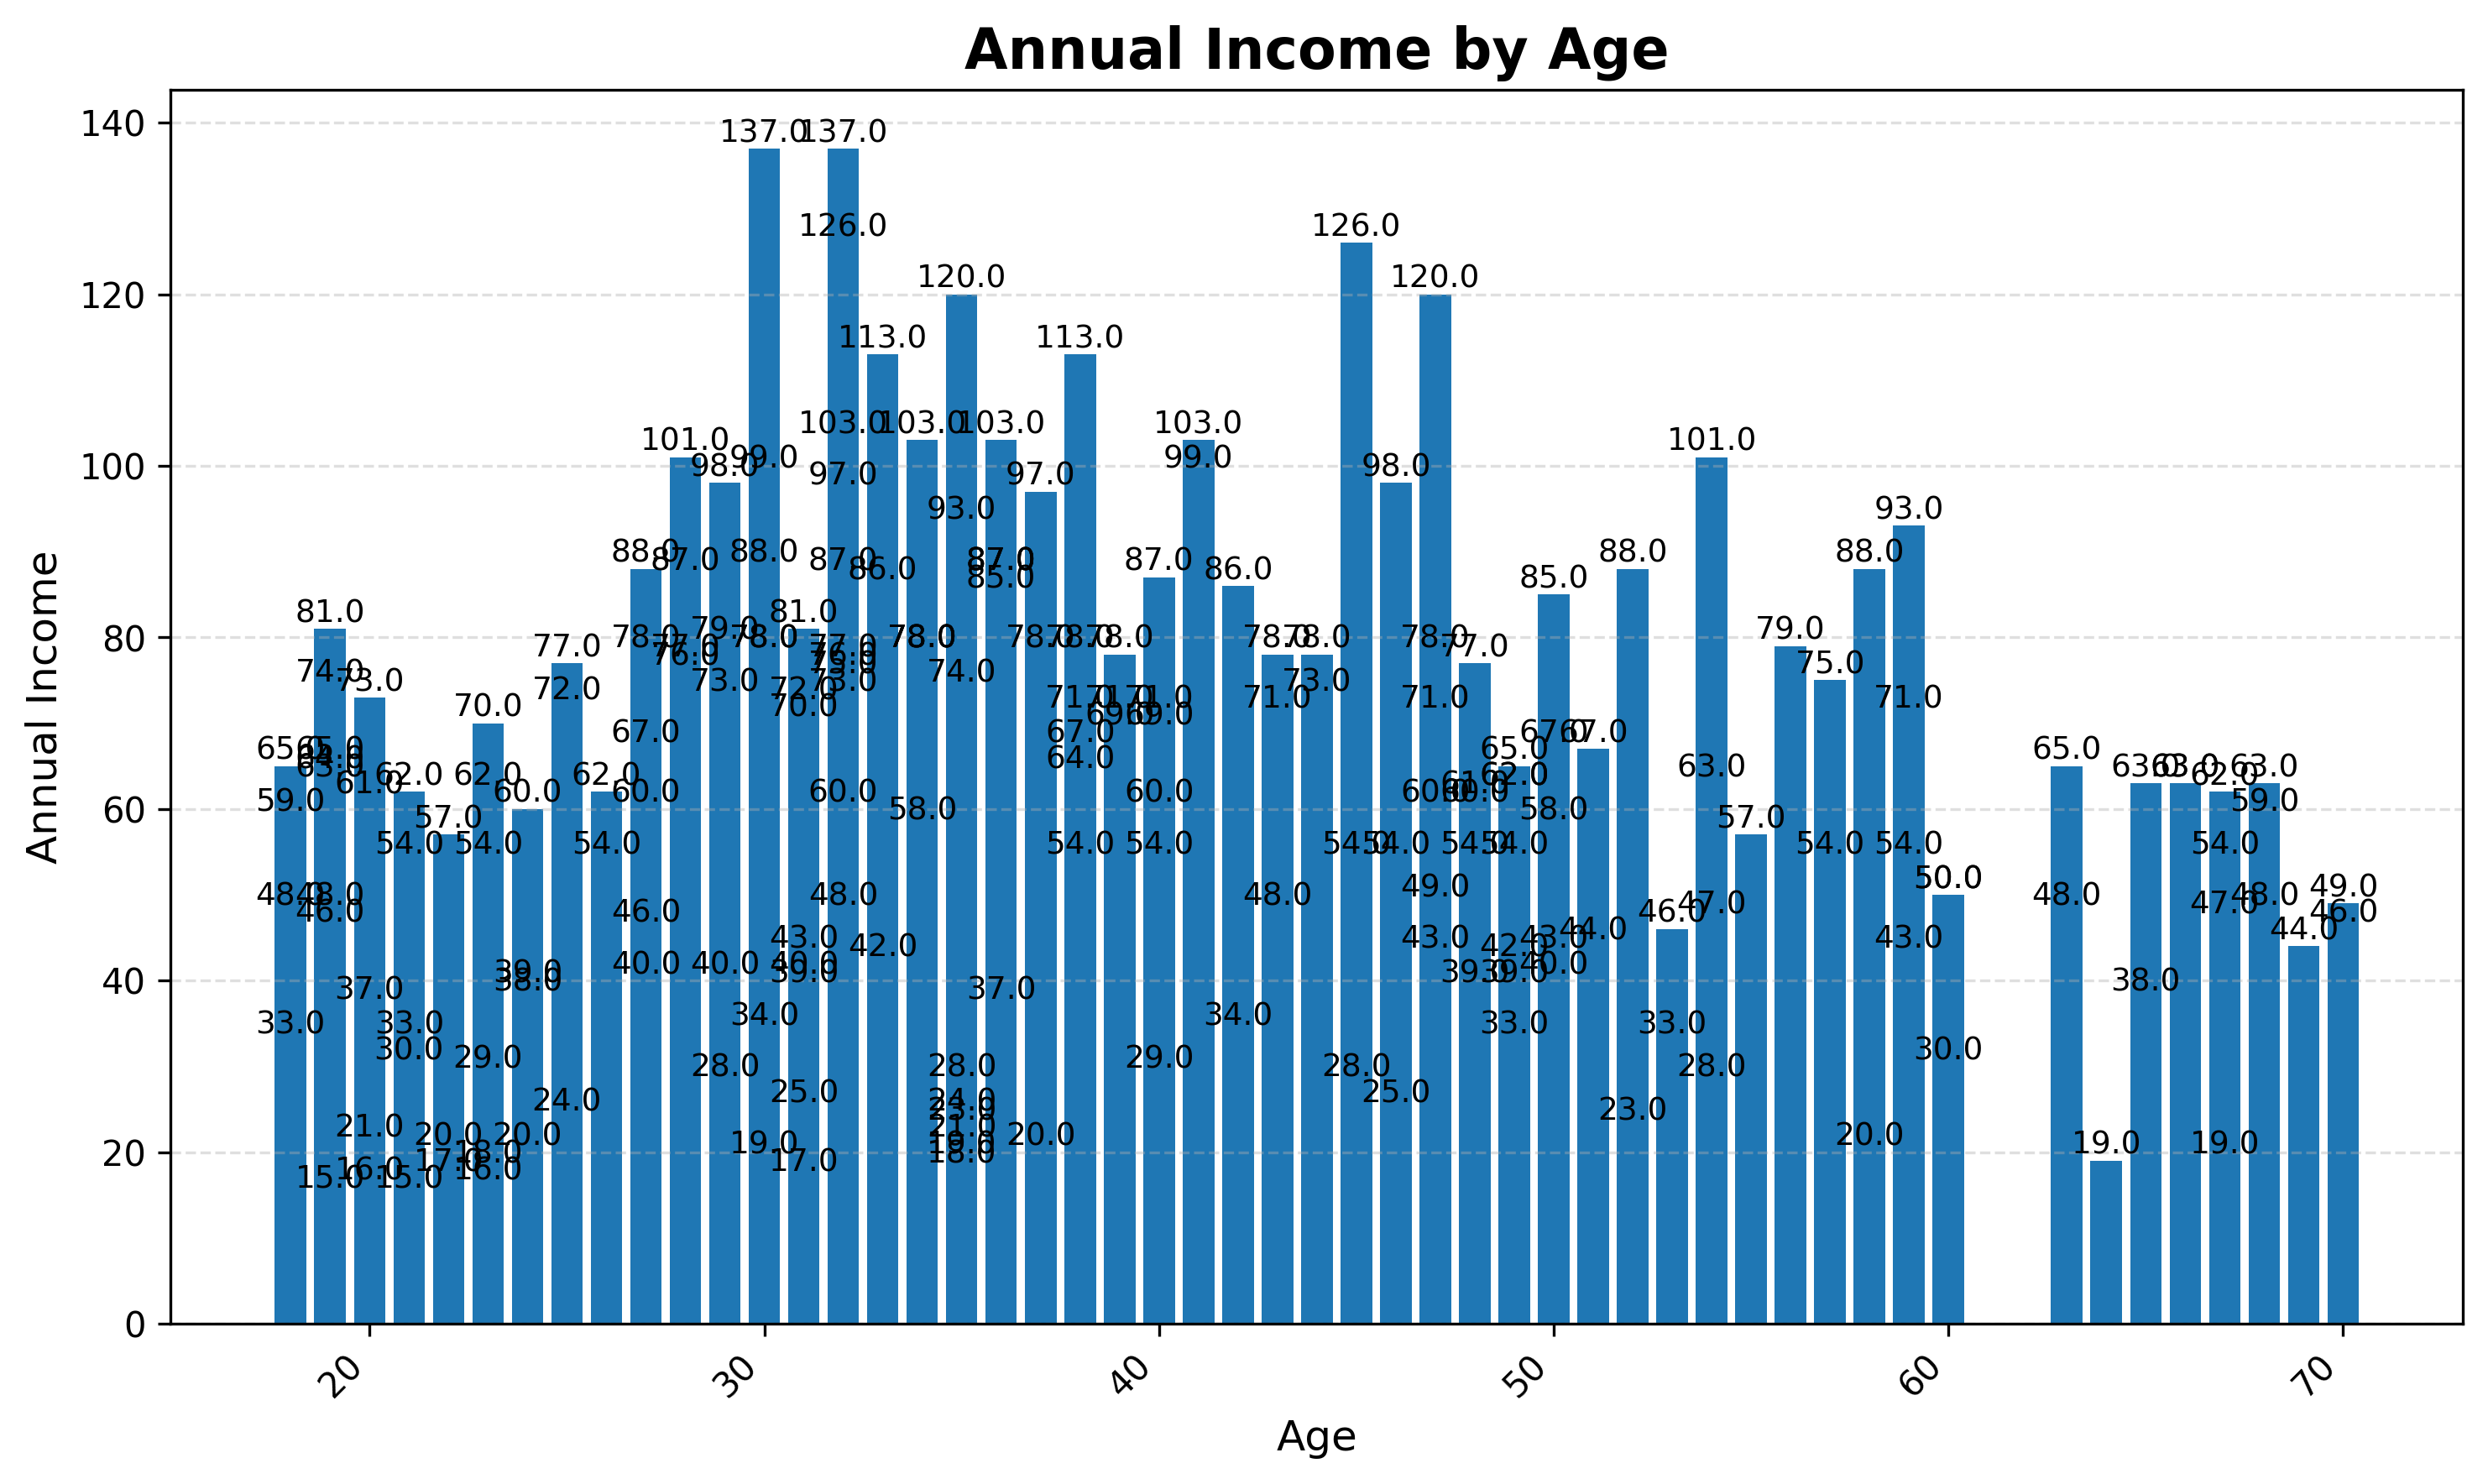
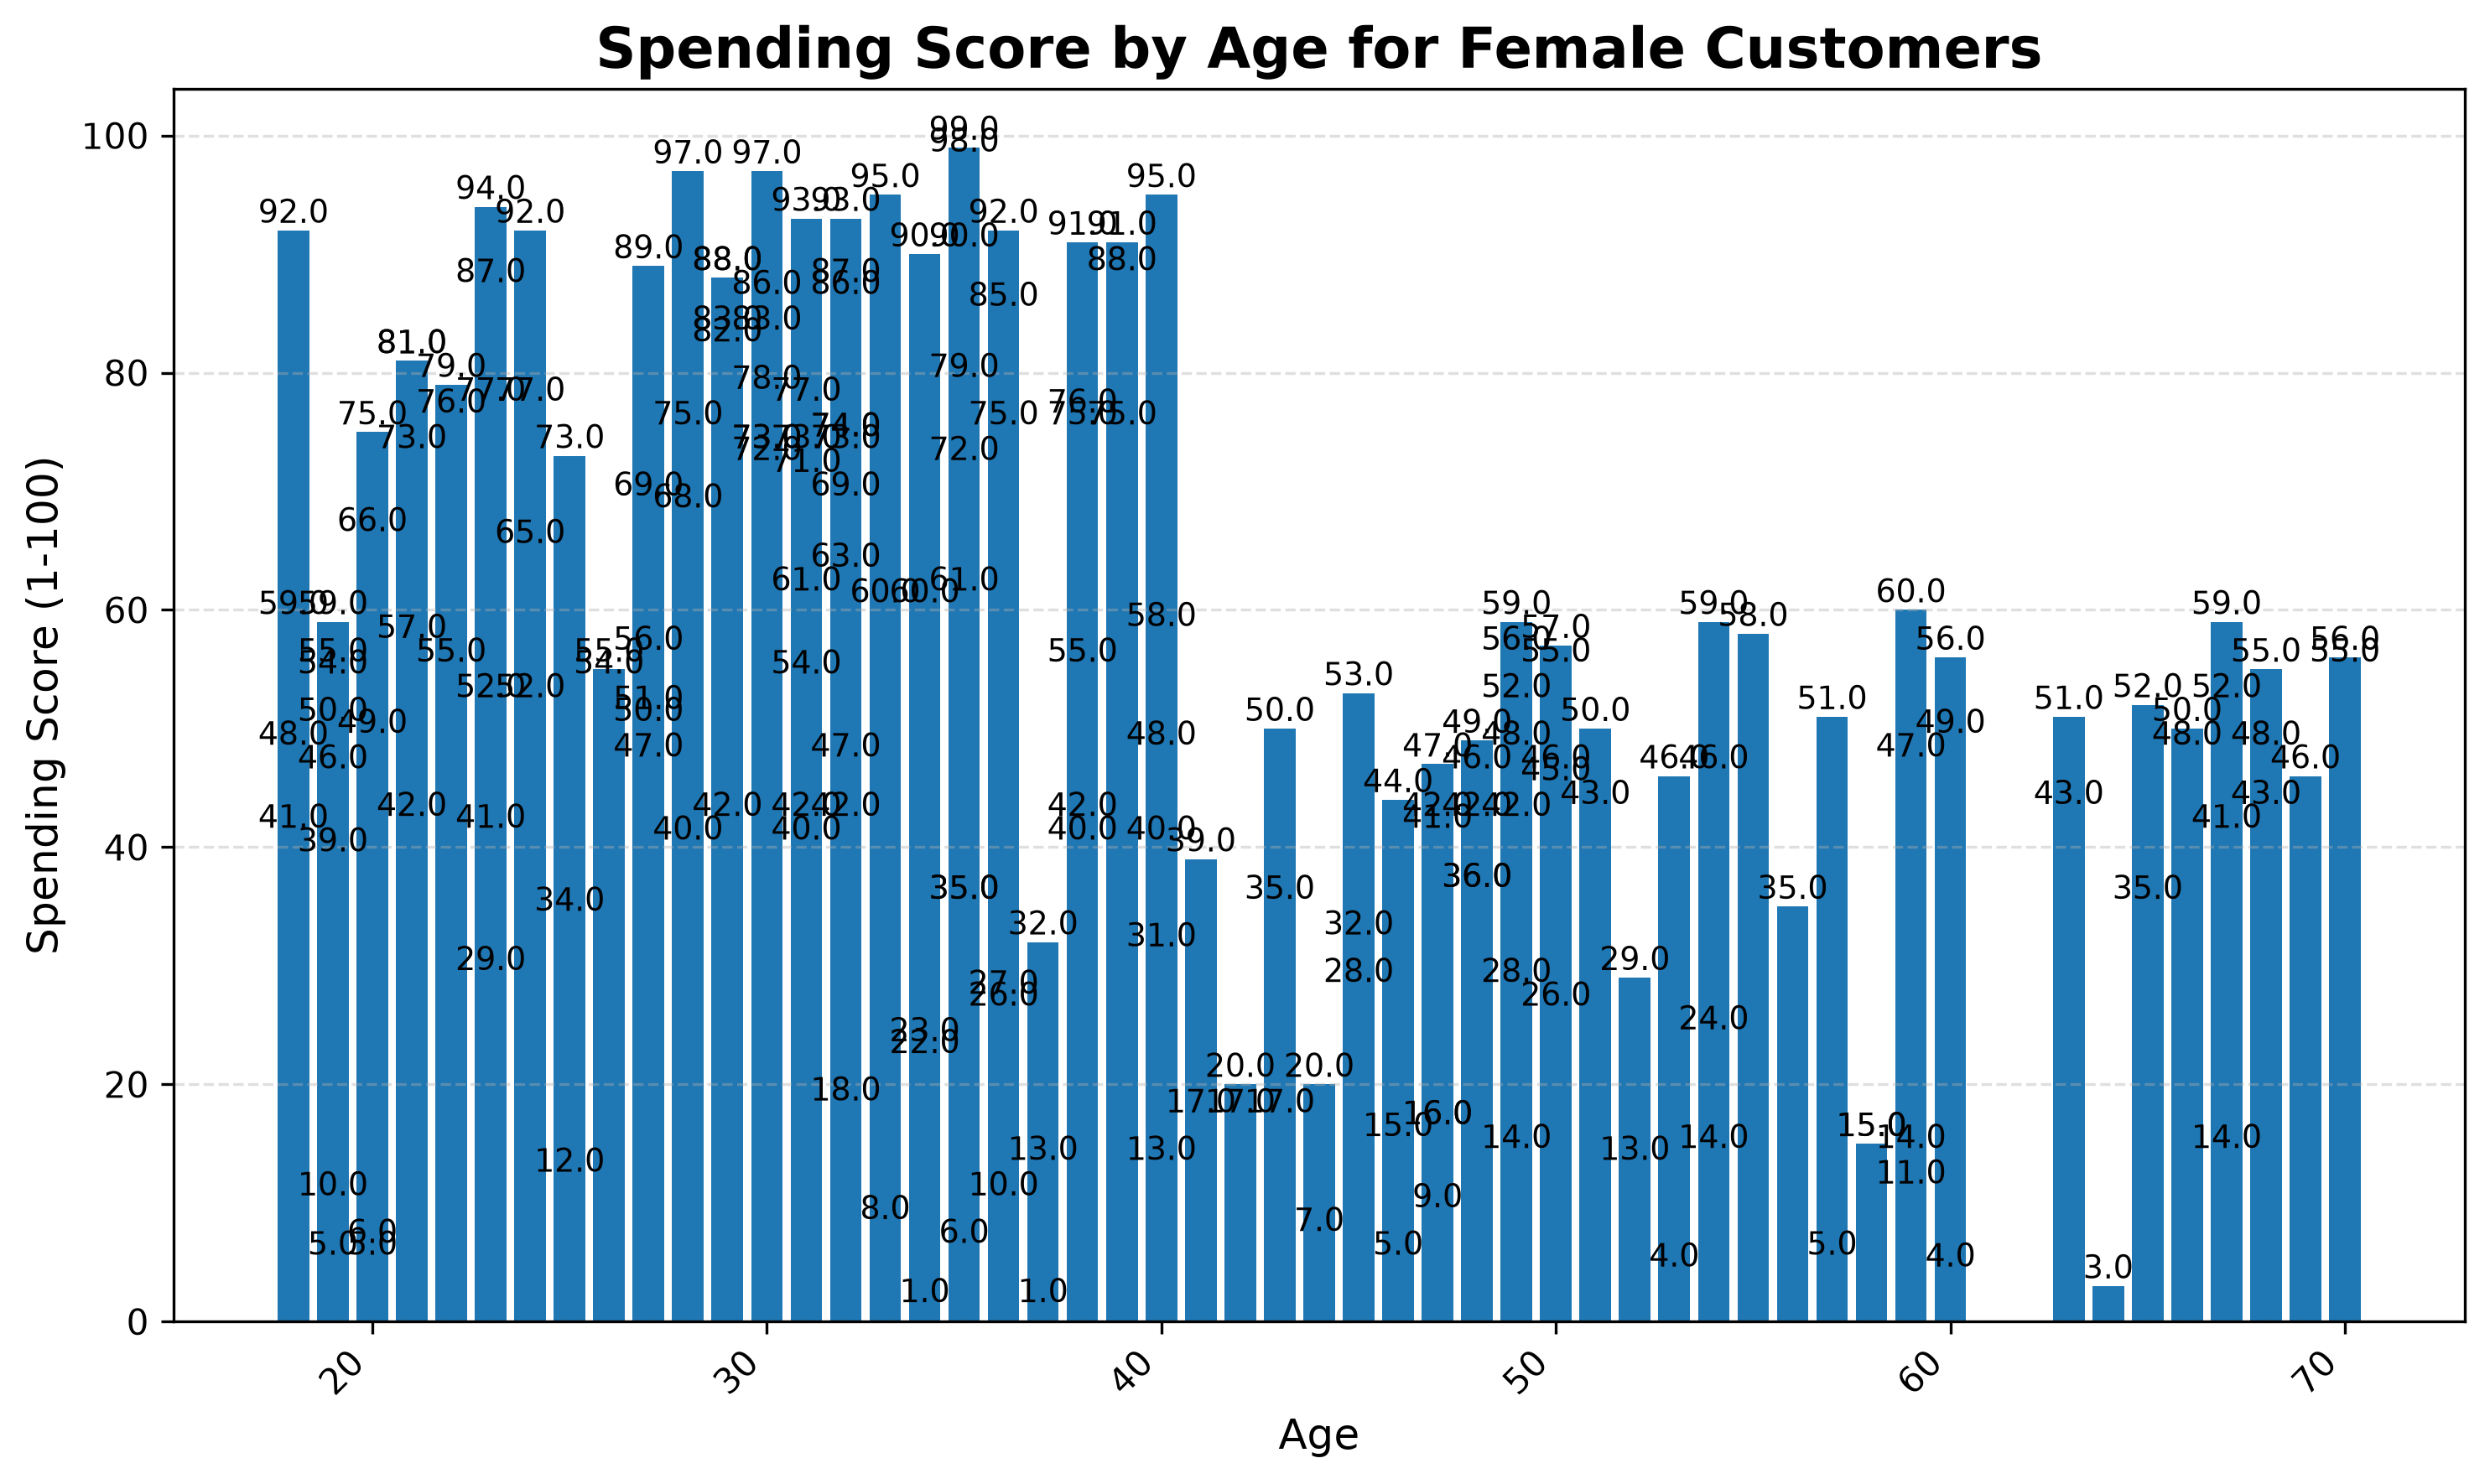
Complete agent orchestration

diff --git a/app.py b/app.py
@@ -1,6 +1,7 @@
-import streamlit as st
-from tools import load_csv, analyze_data, run_pandas_code, plot_chart
 
+import streamlit as st
+from agent import DataAnalysisAgent
+from tools import load_csv
 
 st.set_page_config(
     page_title="DataSense",
@@ -11,78 +12,106 @@ st.set_page_config(
 st.title("📊 DataSense")
 st.markdown("### AI Powered Data Analysis Agent")
 
+# ---------------- Session State ---------------- #
+
+if "agent" not in st.session_state:
+    st.session_state.agent = DataAnalysisAgent()
+
+if "messages" not in st.session_state:
+    st.session_state.messages = []
+
+if "dataset_loaded" not in st.session_state:
+    st.session_state.dataset_loaded = False
+
+
+# ---------------- Sidebar ---------------- #
+
 with st.sidebar:
+
     st.header("Dataset")
 
     uploaded_file = st.file_uploader(
-        "Upload a CSV File",
+        "Upload CSV",
         type=["csv"]
     )
 
-if uploaded_file:
+    if uploaded_file is not None:
+
         result = load_csv(uploaded_file)
-        st.success(f"Uploaded: {uploaded_file.name}")
+
+        st.session_state.dataset_loaded = True
+
+        st.success(f"{uploaded_file.name} uploaded successfully!")
 
         st.write("### Dataset Information")
         st.write(f"Rows : {result['rows']}")
         st.write(f"Columns : {result['columns']}")
 
-        st.write("### Columns")
+        st.write("### Column Names")
         st.write(result["column_names"])
 
         st.write("### Preview")
         st.dataframe(result["preview"])
 
-        if st.button("Analyze Data"):
-            summary = analyze_data()
-            st.write("### Analysis Summary")
-            st.code(summary)
 
-        result = run_pandas_code("""print(df.head())""")
-        st.code(result)
-
-        chart_filename = plot_chart(
-            chart_type="bar",
-            x="Age",
-            y='Annual Income (k$)',
-            title="Annual Income by Age",
-            xlabel="Age",
-            ylabel = "Annual Income"
-        )
-        st.image(chart_filename)
-    
-
-if "messages" not in st.session_state:
-    st.session_state.messages = []
+# ---------------- Chat History ---------------- #
 
 for message in st.session_state.messages:
+
     with st.chat_message(message["role"]):
         st.markdown(message["content"])
 
-user_prompt = st.chat_input(
-    "Ask anything about your dataset..."
-)
 
-if user_prompt:
+# ---------------- Chat Input ---------------- #
+
+prompt = st.chat_input("Ask anything about your dataset...")
+
+
+if prompt:
+
+    if not st.session_state.dataset_loaded:
+
+        st.warning("Please upload a CSV file first.")
+
+        st.stop()
+
+    # Display user message
 
     st.session_state.messages.append(
         {
             "role": "user",
-            "content": user_prompt
+            "content": prompt
         }
     )
 
     with st.chat_message("user"):
-        st.markdown(user_prompt)
+        st.markdown(prompt)
 
-    response = "I received your question."
+    # Generate response
+    with st.chat_message("assistant"):
+
+        with st.spinner("Thinking..."):
+            response = st.session_state.agent.run_agent(
+                prompt,
+                st.session_state.messages
+            )
+
+        if response["type"] == "stream":
+            full_text = st.write_stream(response["content"])
+            display_content = full_text or ""
+
+        elif response["type"] == "text":
+            content = response["content"] or ""
+            st.markdown(content if content else "*(No response)*")
+            display_content = content
+
+        elif response["type"] == "chart":
+            st.image(response["content"], use_container_width=True)
+            display_content = f"[Chart saved: {response['content']}]"
 
     st.session_state.messages.append(
         {
             "role": "assistant",
-            "content": response
+            "content": display_content
         }
     )
-
-    with st.chat_message("assistant"):
-        st.markdown(response)

diff --git a/agent.py b/agent.py
@@ -1,3 +1,4 @@
+
 from tool_registry import get_tool
 from tool_registry import build_function_declarations
 from tools import (
@@ -52,10 +53,25 @@ class DataAnalysisAgent:
             model="gemini-2.5-flash",
             contents=contents,
             config=types.GenerateContentConfig(
+                system_instruction=SYSTEM_PROMPT,
                 tools=self.gemini_tools
             )
         )
         return response
+
+    def _generate_response_stream(self, contents):
+
+        stream = self.client.models.generate_content_stream(
+            model="gemini-2.5-flash",
+            contents=contents,
+            config=types.GenerateContentConfig(
+                system_instruction=SYSTEM_PROMPT,
+                tools=self.gemini_tools
+            )
+        )
+        for chunk in stream:
+            if chunk.text:
+                yield chunk.text
 
     def _execute_tool(self, function_call):
 
@@ -72,7 +88,7 @@ class DataAnalysisAgent:
 
         return tool_name, result
 
-    def _build_tool_response(self, tool_name, tool_result):
+    def _build_tool_response(self, tool_name, tool_output):
 
         return types.Content(
             role="tool",
@@ -80,10 +96,72 @@ class DataAnalysisAgent:
                 types.Part.from_function_response(
                     name=tool_name,
                     response={
-                        "result": tool_result
+                        "result": str(tool_output)
                     }
                 )
             ]
         )
-    
 
+    def run_agent(self, user_query, chat_history=None):
+        """
+        Main agent loop.
+        """
+        messages = []
+        
+        if chat_history:
+            for msg in chat_history:
+                role = "model" if msg["role"] == "assistant" else "user"
+                messages.append(
+                    {
+                        "role": role,
+                        "parts": [{"text": msg["content"]}]
+                    }
+                )
+        else:
+            messages.append(
+                {
+                    "role": "user",
+                    "parts": [{"text": user_query}]
+                }
+            )
+
+        last_chart_filename = None
+
+        while True:
+
+            response = self._generate_response(messages)
+
+            if response.function_calls:
+
+                messages.append(
+                    {
+                        "role": "model",
+                        "parts": response.parts
+                    }
+                )
+
+                for function_call in response.function_calls:
+
+                    print(f"Executing: {function_call.name}")
+
+                    try:
+                        tool_name, tool_result = self._execute_tool(function_call)
+
+                        if function_call.name == "plot_chart" and isinstance(tool_result, str) and tool_result.endswith(".png"):
+                            last_chart_filename = tool_result
+
+                    except Exception as e:
+                        tool_name = function_call.name
+                        tool_result = f"Tool execution failed:\n{e}"
+
+                    tool_response = self._build_tool_response(
+                        tool_name,
+                        tool_result
+                    )
+                    messages.append(tool_response)
+                continue
+
+            if last_chart_filename:
+                return {"type": "chart", "content": last_chart_filename}
+
+            return {"type": "stream", "content": self._generate_response_stream(messages)}